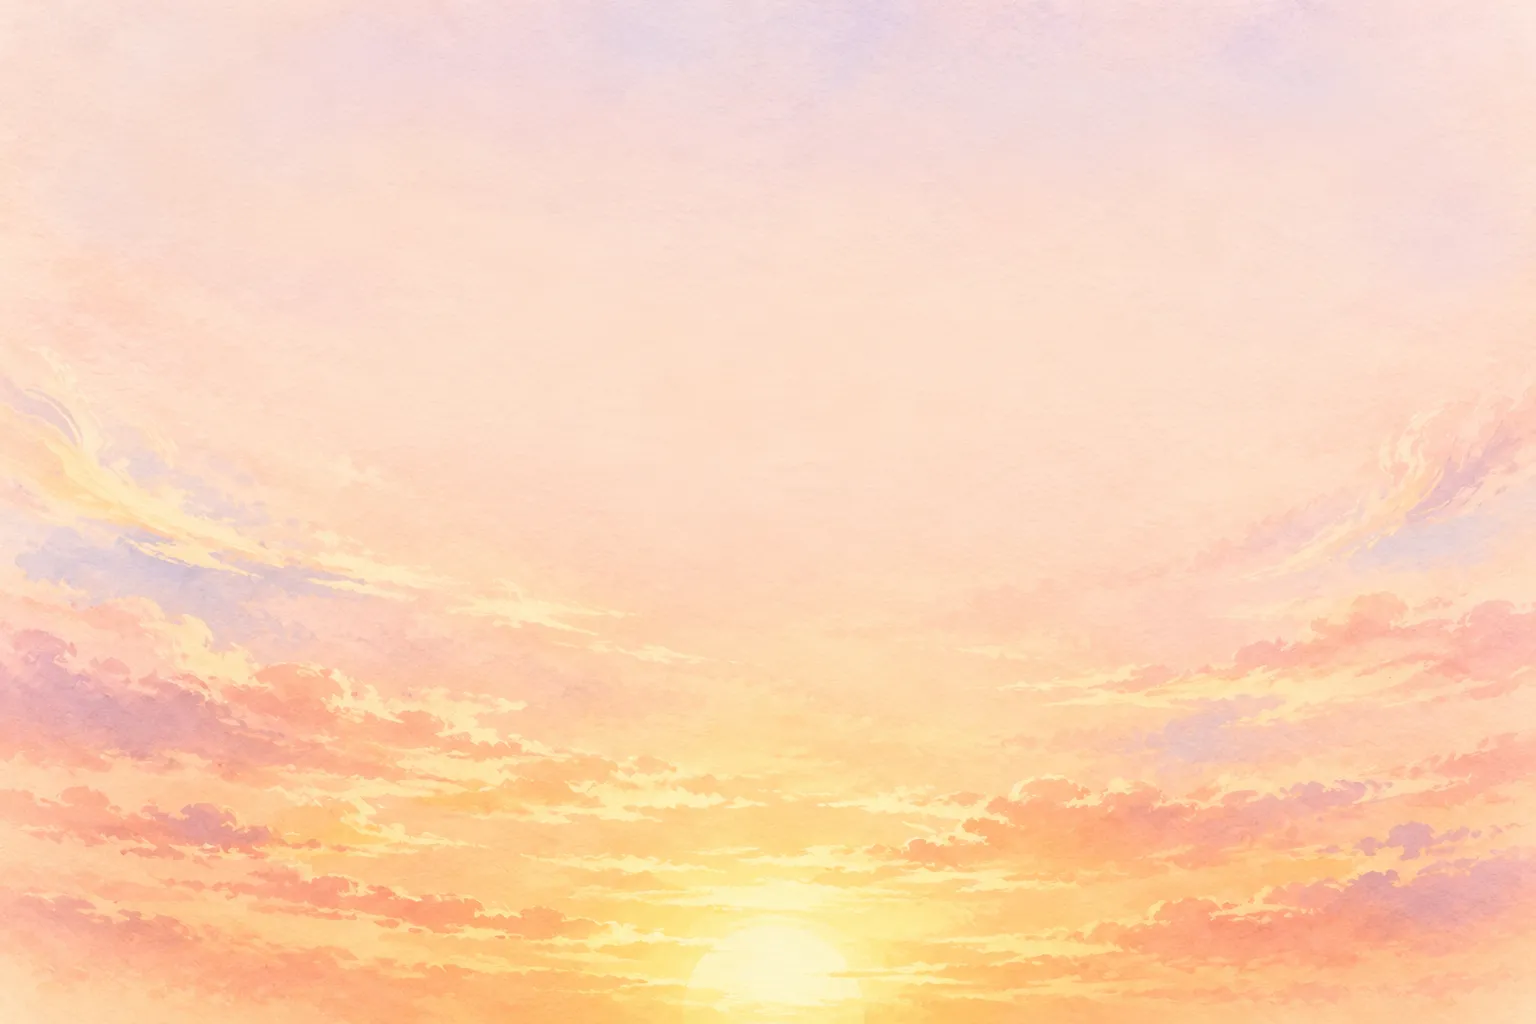
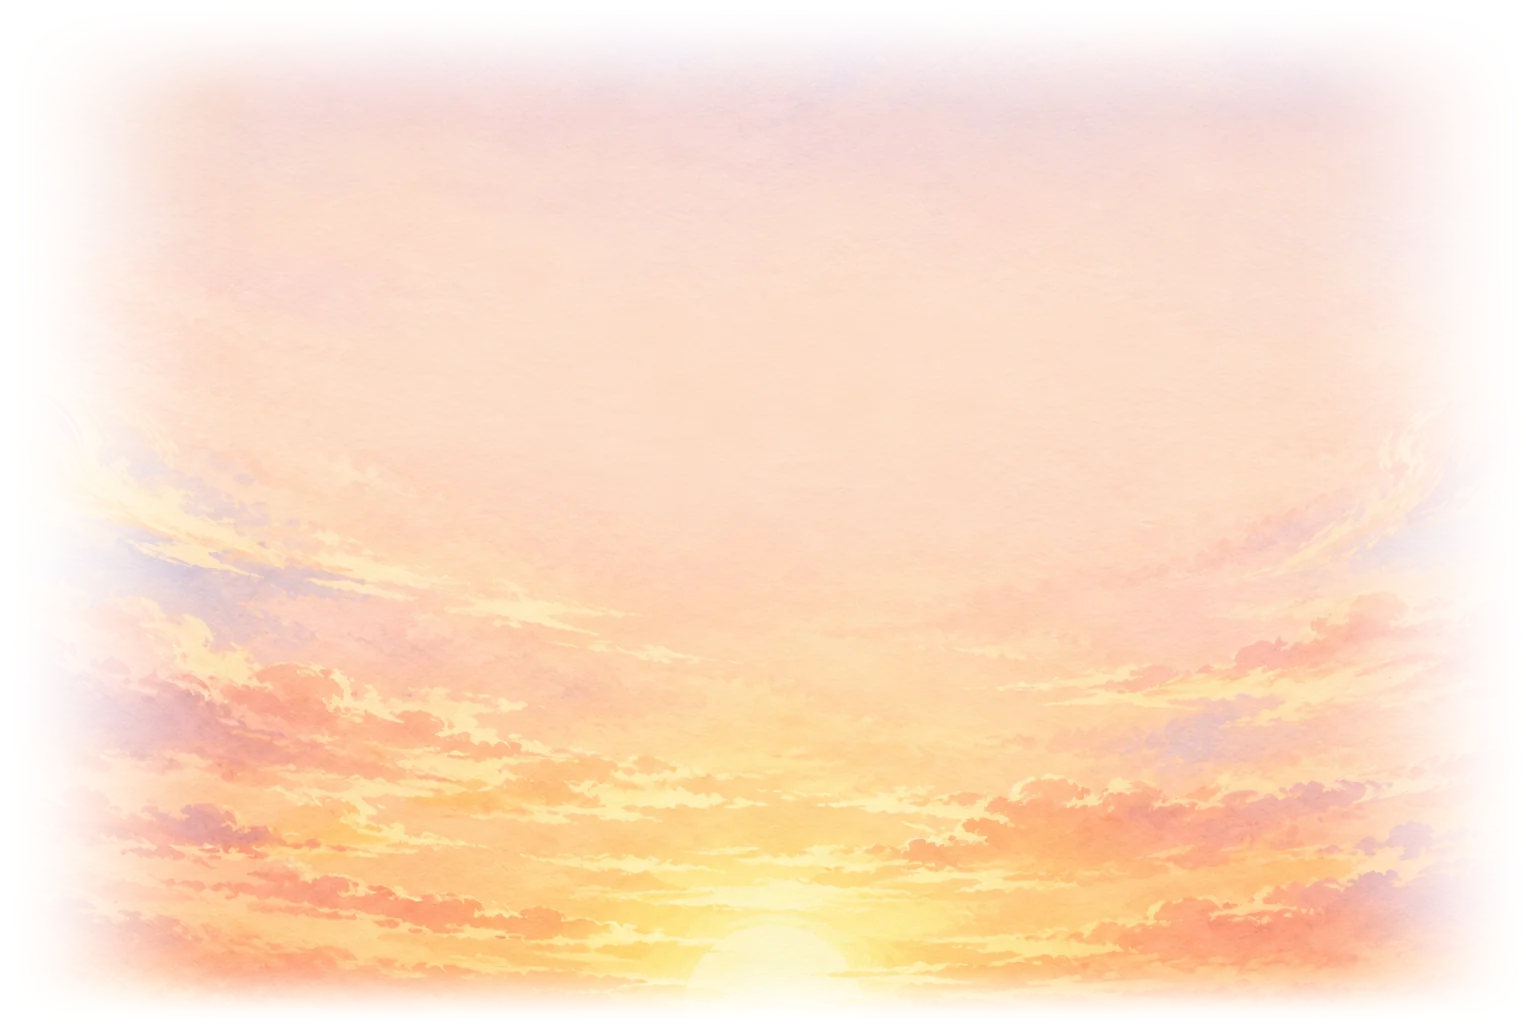
Финал: солнце из картинки за нижним шариком, небо до верха раздела, края растворяются в самом файле; исходный dawn.webp — в .source. Первый экран: крупнее иллюстрация, «фестиваль» отдельной строкой, «к Любви» вправо

Changed region(s): [[0.0, 0.0, 1.0, 1.0]]

diff --git a/index.html b/index.html
@@ -118,9 +118,11 @@ html.menu-open{overflow:hidden}
 /* первый экран — рассвет */
 .hero{position:relative;overflow:hidden;background:linear-gradient(178deg,#f6e6ef 0%,#f9e0e1 30%,#fcd9c4 62%,#f9c79c 100%)}
 .hero::before{content:"";position:absolute;right:-12%;top:-30%;width:min(820px,110vw);aspect-ratio:1;border-radius:50%;background:radial-gradient(circle,rgba(255,236,206,.95) 0%,rgba(255,214,166,.55) 28%,rgba(255,214,166,0) 62%);pointer-events:none}
-.hero .wrap{position:relative;display:grid;grid-template-columns:1.15fr .85fr;gap:32px;align-items:center;padding-block:clamp(44px,6vw,88px) clamp(48px,6vw,92px)}
-.hero h1{font-size:var(--step-4);letter-spacing:-.01em;margin-top:18px}
-.hero h1 .to{font-style:italic;font-weight:400;font-size:.78em;color:var(--accent)}
+.hero .wrap{position:relative;display:grid;grid-template-columns:1.05fr .95fr;gap:32px;align-items:center;padding-block:clamp(44px,6vw,88px) clamp(48px,6vw,92px)}
+/* «От Страха» — по левому краю, «к Любви» — по правому краю первой строки (лесенкой), «к» отставлено от «Любви» */
+.hero h1{display:grid;width:max-content;max-width:100%;font-size:var(--step-4);letter-spacing:-.01em;margin-top:18px}
+.hero h1 .l2{justify-self:end}
+.hero h1 .to{font-style:italic;font-weight:400;font-size:.78em;color:var(--accent);margin-right:.42em}
 .hero .sub{font-family:var(--font-display);font-style:italic;font-size:var(--step-1);margin-top:20px;max-width:30ch;color:var(--soft)}
 .facts{display:flex;flex-wrap:wrap;gap:10px 30px;margin-top:28px}
 .facts div{display:flex;flex-direction:column}
@@ -151,7 +153,7 @@ html.menu-open{overflow:hidden}
 .ill.r169{aspect-ratio:16/9}
 .ill.arched{border-radius:999px 999px 22px 22px}
 .ill.round{border-radius:50%}
-.hero-ill{justify-self:center;width:min(380px,100%);box-shadow:0 30px 60px -36px rgba(110,84,134,.65)}
+.hero-ill{justify-self:center;width:min(480px,100%);box-shadow:0 30px 60px -36px rgba(110,84,134,.65)}
 .day-ill{margin-bottom:clamp(36px,4vw,52px)}
 .mk .ill{margin:-24px -24px 4px;border-radius:calc(var(--r) - 1px) calc(var(--r) - 1px) 0 0}
 .quiz-ill{margin-top:28px;max-width:420px}
@@ -558,10 +560,12 @@ form.req{display:grid;grid-template-columns:1fr 1fr;gap:16px;background:var(--su
 .dawn cite{font-style:normal;color:#6b4a45}
 /* «отпустить»: связка шариков с подписями на нитках; нажатие — нитка отпускается, шарик улетает и тает */
 .letgo{position:relative;width:min(560px,100%);display:grid;gap:6px;justify-items:center;margin-bottom:6px;isolation:isolate}
-/* фон блока — рассветное небо (иллюстрация dawn); края растворяются в градиенте раздела, шарики улетают прямо в него */
-.lg-sky{position:absolute;left:50%;top:-140px;z-index:-1;width:min(840px,170%);aspect-ratio:3/2;transform:translateX(-50%);border-radius:0;
-  background:radial-gradient(ellipse 40% 26% at 50% 80%,rgba(255,236,206,.95),rgba(255,236,206,0)),linear-gradient(180deg,#f1dbe8 0%,#f8dcd6 45%,#fcd7bc 100%);
-  -webkit-mask-image:radial-gradient(ellipse 50% 52% at 50% 44%,#000 52%,transparent 100%);mask-image:radial-gradient(ellipse 50% 52% at 50% 44%,#000 52%,transparent 100%)}
+/* небо (иллюстрация dawn) — от верха раздела до солнца; нарисованное солнце стоит ровно за нижним шариком,
+   связка его закрывает, отпустили шарики — открываются солнце и небо. Положение и высоту задаёт скрипт.
+   Края растворяются прозрачностью, запечённой в сам файл dawn.webp (верх, бока и сразу под солнцем):
+   CSS-маска на большой картинке в Chrome иногда гасит её */
+.lg-sky{position:absolute;left:50%;top:0;height:600px;z-index:-1;width:min(1100px,190%);aspect-ratio:auto;transform:translateX(-50%);border-radius:0;background:none}
+.lg-sky img{object-position:50% 100%}
 .lg-sky::before{display:none}
 .lg-sky .ill-ph{place-content:start center;padding-top:9%;font-size:.74rem}
 .lg-l{font-family:var(--font-display);font-size:var(--step-2);line-height:1.2}
@@ -599,7 +603,7 @@ footer a{text-decoration:none}
   .top .wrap{gap:12px}
   .burger,.mnav{display:block}
   .hero .wrap,.idea .wrap,.cards .wrap,.quiz .wrap,.route,.formwrap,.faq .wrap,.place .wrap,.cast{grid-template-columns:1fr}
-  .hero-ill{width:min(250px,68%);order:-1}
+  .hero-ill{width:min(330px,86%);order:-1}
   .faq-ill{width:min(260px,75%);margin-bottom:12px}
   .mks,.pick{grid-template-columns:1fr}
   .pick .main{order:-1}
@@ -668,8 +672,8 @@ footer a{text-decoration:none}
 <section class="hero">
   <div class="wrap">
     <div>
-      <div class="eyebrow">фестиваль психологических практик</div>
-      <h1>От Страха<br><i class="to">к</i> Любви</h1>
+      <div class="eyebrow">фестиваль<br>психологических практик</div>
+      <h1><span>От Страха</span> <span class="l2"><i class="to">к</i>Любви</span></h1>
       <p class="sub">через доверие к миру, к себе, к своему телу и к своему роду</p>
       <div class="facts">
         <div><b>21 ноября 2026</b><span>суббота · 11:00–18:45</span></div>
@@ -1340,6 +1344,15 @@ footer a{text-decoration:none}
     });
     knot = document.createElement('span'); knot.className = 'knot'; knot.style.left = kx+'px'; knot.style.top = ky+'px';
     balloonsEl.appendChild(knot);
+    /* небо: верх — у верха раздела, нарисованное солнце (на 92% высоты картинки, картинка прижата к низу) — в центре нижнего шарика */
+    var sky = balloonsEl.parentNode.querySelector('.lg-sky');
+    if (sky){
+      var lg = balloonsEl.parentNode, top = -lg.offsetTop - lg.parentNode.offsetTop + 8,   /* от верха раздела, с небольшим запасом */
+          sunY = balloonsEl.offsetTop + Math.round(SPOT[7][1]*bh + bh*.45), Wb = sky.offsetWidth,
+          hW = Wb*1024/1536, bottom = sunY + .08*hW;                     /* картинка вписана по ширине */
+      if (bottom - top > hW) bottom = (sunY - .08*top) / .92;            /* картинка вписана по высоте */
+      sky.style.top = Math.round(top) + 'px'; sky.style.height = Math.round(bottom - top) + 'px';
+    }
   }
   function letGo(b){
     /* полёт от текущего положения (с учётом покачивания): немного вверх с лёгким дрейфом и плавное исчезновение */

diff --git a/ИЛЛЮСТРАЦИИ.md b/ИЛЛЮСТРАЦИИ.md
@@ -22,7 +22,7 @@
 | `quiz` | «Три вопроса — и подскажем», под заголовком | горизонтальный 3:2 | без обрезки |
 | `faq` | «Перед тем как прийти», под заголовком | квадрат | без обрезки |
 | `place` | «Как добраться», под кнопками | горизонтальный 3:2 | без обрезки |
-| `dawn` | Финал — небо над заголовком и за связкой шариков, туда улетают шарики | горизонтальный 3:2 | края растворяются в градиенте раздела; в верхней трети поверх — заголовок раздела тёмным шрифтом, в центре — шарики |
+| `dawn` | Финал — небо от верха раздела до солнца; нарисованное солнце (у нижнего края картинки) стоит за нижним шариком связки, шарики его закрывают; отпустили все — открываются солнце и небо | горизонтальный 3:2, солнце внизу по центру | **на сайте файл с запечённой прозрачностью**: края, верх и низ сразу под солнцем растворяются (делается скриптом из PNG в «09_Оформление/Сайт/»; при замене картинки попросить Claude пересобрать). Исходный webp — в `.source/img-ill/` |
 | `love` | «Ведущие» — финальная арка «Любовь» | вертикальный 2:3 | по форме проёма арки, верх закруглён, низ растворяется |
 | `card` | «Карта дня» — рубашка карт | вертикальный 2:3 | карта около 3:4 — края немного срежутся; внизу надпись на светлой вуали |
 

diff --git a/README.md b/README.md
@@ -7,7 +7,7 @@
 | Файл | Что это |
 |---|---|
 | `index.html` | **Сайт** — одна страница: разметка, стили и скрипт. Правим прямо его |
-| `.source/` | Прежние версии: сайт (первый, тёмный вариант); исходник-фрагмент `page` и скрипт сборки `build.py` (до 27.10 сайт собирался из них); `ИЛЛЮСТРАЦИИ.md` с промптами — не актуальны, не удаляем |
+| `.source/` | Прежние версии: сайт (первый, тёмный вариант); исходник-фрагмент `page` и скрипт сборки `build.py` (до 27.10 сайт собирался из них); `ИЛЛЮСТРАЦИИ.md` с промптами; `img-ill/` — прежние версии иллюстраций, заменённые на сайте (например, `dawn` до запекания прозрачности) — не актуальны, не удаляем |
 | `img/` | `img/people/` — вырезанные из фона фото ведущих для анфилады (WebP с прозрачностью, 4:5, 800×1000; есть Савельева, Виноградова, Трофимова). `kochurova.jpg`, `trofimova.jpg` — прежние квадратные фото, на сайте больше не используются |
 | `img/ill/` | Иллюстрации — все 14 стоят на сайте (WebP, сжатые из PNG ChatGPT; исходники PNG — «09_Оформление/Сайт/»). Файл `<имя>.webp`, `.jpg` или `.png` подставляется сам; если файла нет — видна заглушка с именем |
 | `ИЛЛЮСТРАЦИИ.md` | Список мест под иллюстрации (14 штук), имена файлов и форматы. Идеи и промпты — в «09_Оформление/Сайт/Иллюстрации для сайта — идеи и промпты.md» |
